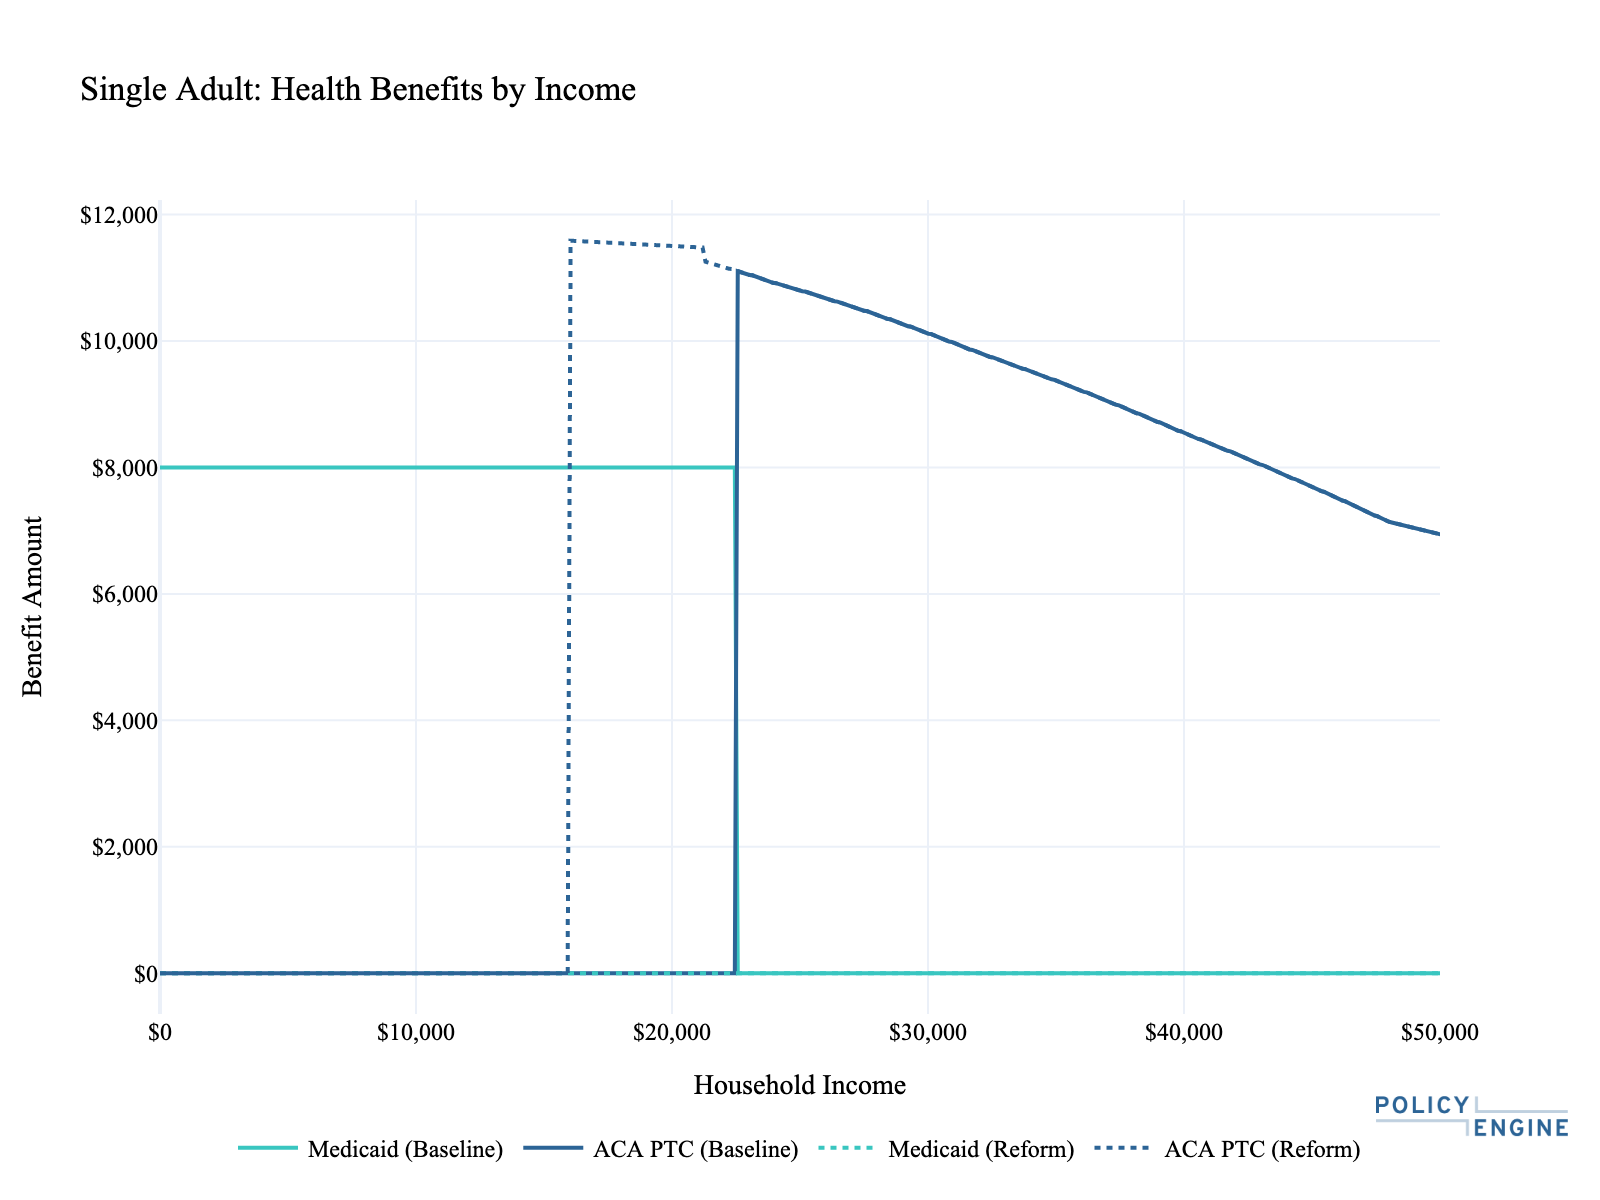
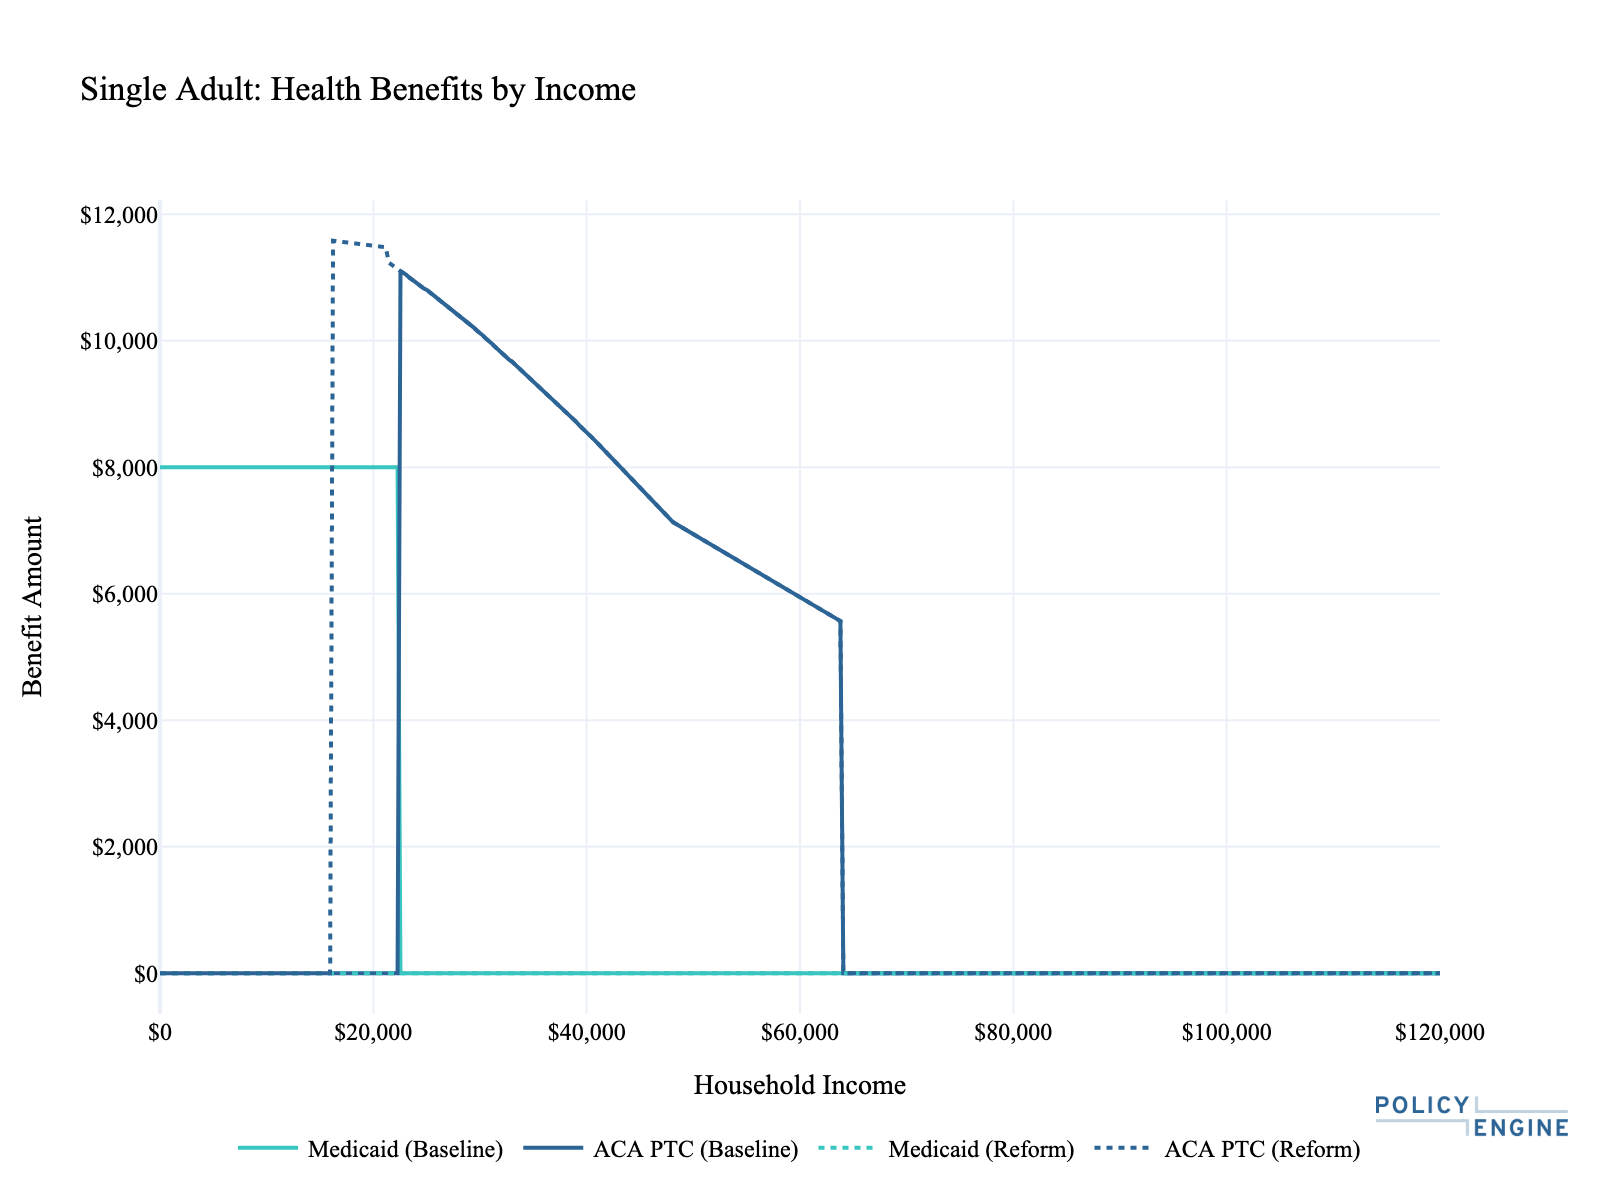
Update Utah HB 15 charts and tables with correct CHIP data
- Extend x-axis to $120k to show full ACA phase-out
- Fix child coverage to include CHIP (Medicaid + CHIP combined)
- Update table values with correct simulation data
- Child transitions from Medicaid ($3,495) to CHIP ($2,827) at higher incomes

diff --git a/app/src/data/posts/articles/utah-hb15-medicaid-expansion-repeal.md b/app/src/data/posts/articles/utah-hb15-medicaid-expansion-repeal.md
@@ -30,9 +30,9 @@ At $18,000/year (110% FPL), that same adult could transition to ACA coverage, re
 |--------|-------|---------------------|-------------------|-------------------|------------------|-------|
 | $12,000 | 75% | $8,000 | $0 | $0 | $0 | Coverage gap |
 | $16,334 | 100% | $8,000 | $0 | $0 | $11,579 | FPL threshold |
-| $18,000 | 110% | $8,000 | $0 | $0 | $10,861 | ACA eligible |
-| $22,541 | 138% | $8,000 | $0 | $0 | $7,256 | Expansion limit |
-| $25,000 | 153% | $0 | $0 | $5,299 | $5,299 | Above expansion |
+| $18,000 | 110% | $8,000 | $0 | $0 | $11,544 | ACA eligible |
+| $22,541 | 138% | $8,000 | $0 | $0 | $11,103 | Expansion limit |
+| $25,000 | 153% | $0 | $0 | $10,802 | $10,802 | Above expansion |
 
 The chart below shows how health benefits change across income levels for a single adult. Solid lines represent current law, while dotted lines show the reform scenario.
 
@@ -42,9 +42,9 @@ The chart below shows how health benefits change across income levels for a sing
 
 For a single parent with one child, the FPL threshold is higher (~$22,100 for a family of two), meaning the coverage gap extends to higher income levels.
 
-A parent earning $15,000/year (68% FPL for a family of two) would fall into the coverage gap under HB 15. The parent would no longer receive ~$8,000 in annual Medicaid benefits and would not qualify for ACA subsidies at this income level. Their child, however, remains covered through Medicaid/CHIP—children's eligibility is unaffected by the expansion repeal.
+A parent earning $15,000/year (68% FPL for a family of two) would fall into the coverage gap under HB 15. The parent would no longer receive ~$8,000 in annual Medicaid benefits and would not qualify for ACA subsidies at this income level. Their child remains covered through Medicaid at lower incomes, transitioning to CHIP at higher incomes—children's eligibility is unaffected by the adult expansion repeal.
 
-At higher incomes (above 100% FPL for their family size), parents can transition to ACA subsidies while children remain on Medicaid/CHIP.
+At higher incomes (above 100% FPL for their family size), parents can transition to ACA subsidies. Children remain on Medicaid up to ~136% FPL, then CHIP up to 205% FPL (~$46,000 for a family of two), after which they lose coverage.
 
 **Table 2: Health Benefits for Single Parent + Child in Utah (2027)**
 
@@ -52,11 +52,11 @@ At higher incomes (above 100% FPL for their family size), parents can transition
 |--------|-------|---------------------------|-------------------------|---------------------|-------------------|------------------|-------|
 | $15,000 | 68% | $8,000 | $0 | $3,495 | $0 | $0 | Coverage gap for parent |
 | $22,138 | 100% | $8,000 | $0 | $3,495 | $0 | $11,457 | FPL threshold |
-| $25,000 | 113% | $8,000 | $0 | $3,495 | $0 | $9,187 | ACA eligible |
-| $30,550 | 138% | $8,000 | $0 | $3,495 | $0 | $4,786 | Expansion limit |
-| $35,000 | 158% | $0 | $0 | $3,495 | $1,252 | $1,252 | Above expansion |
+| $25,000 | 113% | $8,000 | $0 | $3,495 | $0 | $11,397 | ACA eligible |
+| $30,550 | 138% | $8,000 | $0 | $3,495 | $0 | $10,812 | Expansion limit |
+| $35,000 | 158% | $0 | $0 | $2,827 | $10,270 | $10,270 | Above expansion (CHIP) |
 
-The chart below shows how health benefits change across income levels for a single parent with one child. The child's Medicaid/CHIP coverage remains constant across all income levels regardless of the reform.
+The chart below shows how health benefits change across income levels for a single parent with one child. The child transitions from Medicaid ($3,495) to CHIP ($2,827) at higher incomes, losing coverage entirely above 205% FPL (~$46,000).
 
 ![Single Parent + Child: Health Benefits by Income](/assets/posts/utah-hb15-parent-child.png)
 
